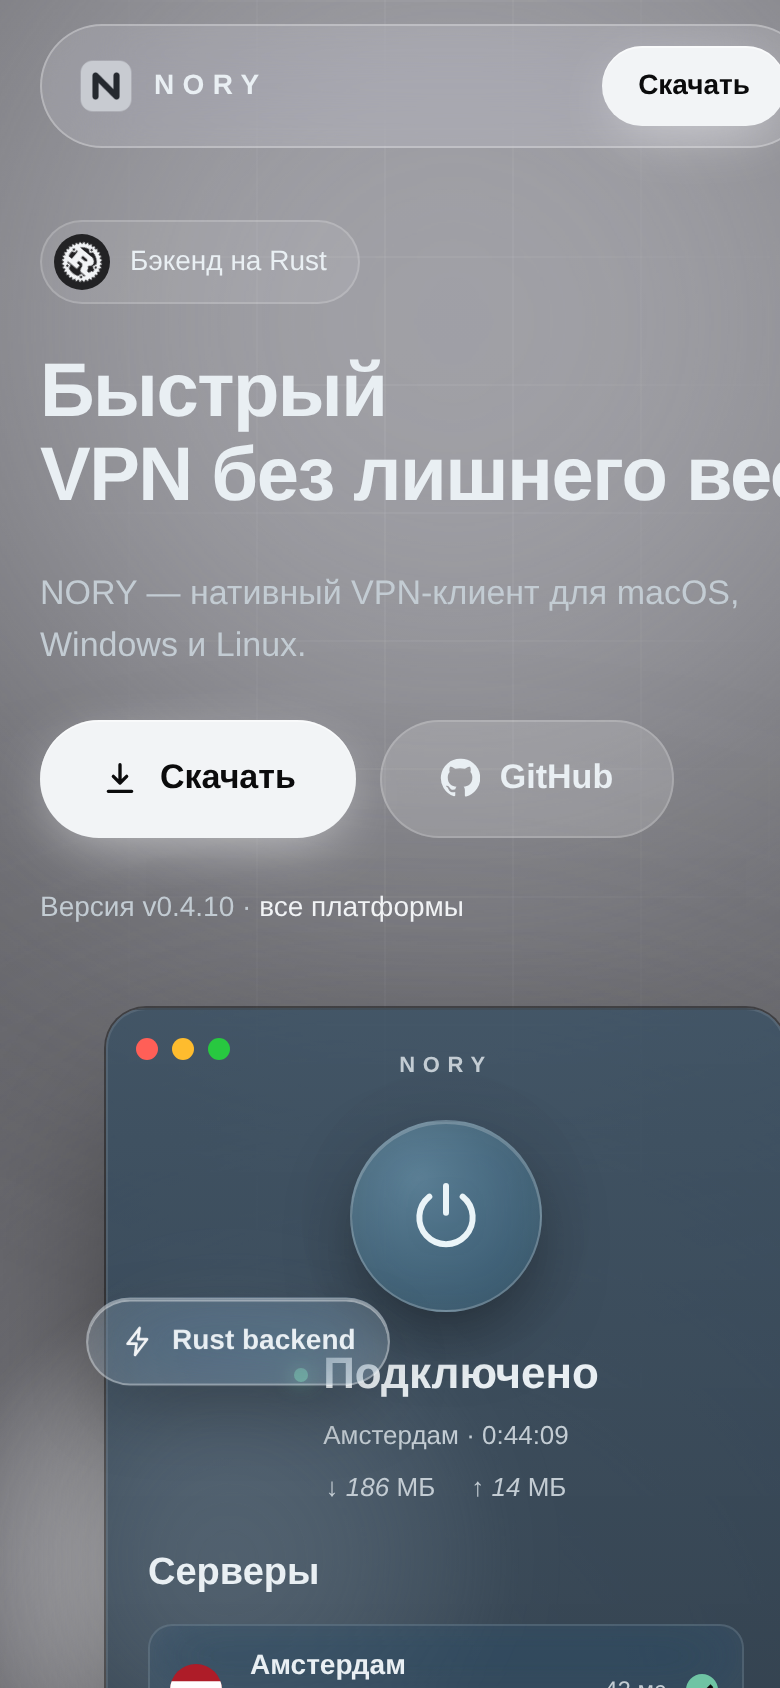
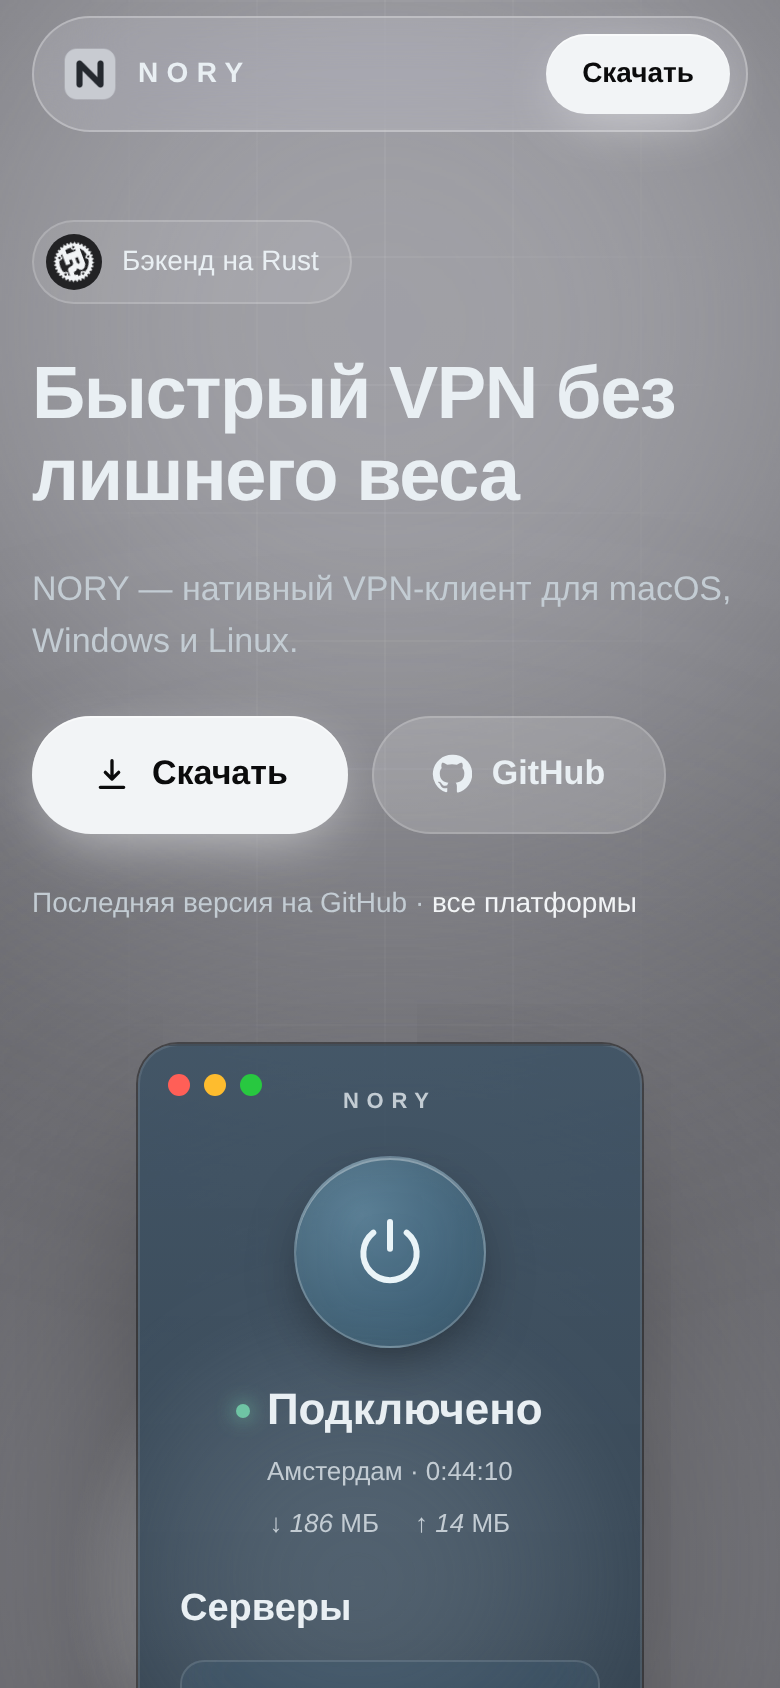
Nory landing: fix mobile layout (overflow, heading wrap, sticky stage) (#3)
Claude-Session: https://claude.ai/code/session_01U9z51qNmc1ZQZn17ozDYa4

diff --git a/nory/style.css b/nory/style.css
@@ -221,3 +221,27 @@ h2{font-size:clamp(28px,4vw,44px);font-weight:700}
 .heart{width:13px;height:13px;fill:#fff;filter:drop-shadow(0 0 4px rgba(255,255,255,.6));transform-origin:center;animation:beat 1.6s ease-in-out infinite}
 @keyframes beat{0%,100%{transform:scale(1)}14%{transform:scale(1.28)}28%{transform:scale(1)}42%{transform:scale(1.2)}70%{transform:scale(1)}}
 @media(prefers-reduced-motion:reduce){.heart{animation:none}}
+html,body{overflow-x:clip;max-width:100%}
+.hero>*,.story-in>*,.bypass>*,.rust-card>*{min-width:0}
+@media(max-width:900px){
+  .wrap{width:calc(100% - 32px)}
+  .nav{top:8px}.nav-in{padding:8px 8px 8px 14px;gap:12px}
+  h1{font-size:clamp(32px,9.5vw,48px)}
+  h2{font-size:clamp(25px,7vw,34px)}
+  .hero-visual{overflow:hidden;padding:20px 0 30px;margin:0 -16px}
+  .float::before{left:-40px}
+  .p1{left:8px;top:21%}.p2{right:8px;bottom:12%}
+  .win{width:min(340px,100%)}
+  .step{min-height:38vh;opacity:.4;transform:none}
+  .step.act{opacity:1}
+  .story-stage{margin:0 -16px;padding:8px 0 4px;top:64px}
+  .stage-sticky{zoom:.5;transform:none;margin:0;height:auto;padding:0}
+  .story-stage{background:linear-gradient(#66666b 88%,rgba(102,102,107,0))}
+  .p1,.p2{display:none}
+  .stage-sticky::before{display:none}
+  .rust-card{padding:24px 18px}
+  .bypass{padding:50px 0}
+  .win.add{width:min(360px,100%)}
+  .dl-card{padding:44px 16px}
+  .foot{justify-content:center;text-align:center}
+}

diff --git a/nory/index.html b/nory/index.html
@@ -31,7 +31,7 @@
 <section class="hero wrap">
   <div class="hero-text">
     <a class="chip rise" href="#rust"><span class="rust-dot"><svg viewBox="0 0 24 24"><use href="#ico-rust"/></svg></span>Бэкенд на Rust</a>
-    <h1 class="rise" style="--d:.08s">Быстрый VPN&nbsp;без&nbsp;лишнего&nbsp;веса</h1>
+    <h1 class="rise" style="--d:.08s">Быстрый VPN без лишнего веса</h1>
     <p class="lead rise" style="--d:.16s">NORY — нативный VPN-клиент для macOS, Windows и Linux.</p>
     <div class="cta rise" style="--d:.24s">
       <a class="btn btn-lg" id="hero-dl" href="#download"><svg viewBox="0 0 24 24"><use href="#ico-dl"/></svg><span data-dl-label>Скачать</span></a>

diff --git a/nory/script.js b/nory/script.js
@@ -34,7 +34,7 @@
   };
   const so = new IntersectionObserver(es => es.forEach(e => {
     if (e.isIntersecting) setStep(+e.target.dataset.i);
-  }), { rootMargin: "-45% 0px -45% 0px" });
+  }), { rootMargin: matchMedia("(max-width:900px)").matches ? "-60% 0px -30% 0px" : "-45% 0px -45% 0px" });
   steps.forEach(s => so.observe(s)); setStep(0);
 
   const win = $("#win-main"), power = $("#power"), st = $("#state-text"), tm = $("#timer"),
